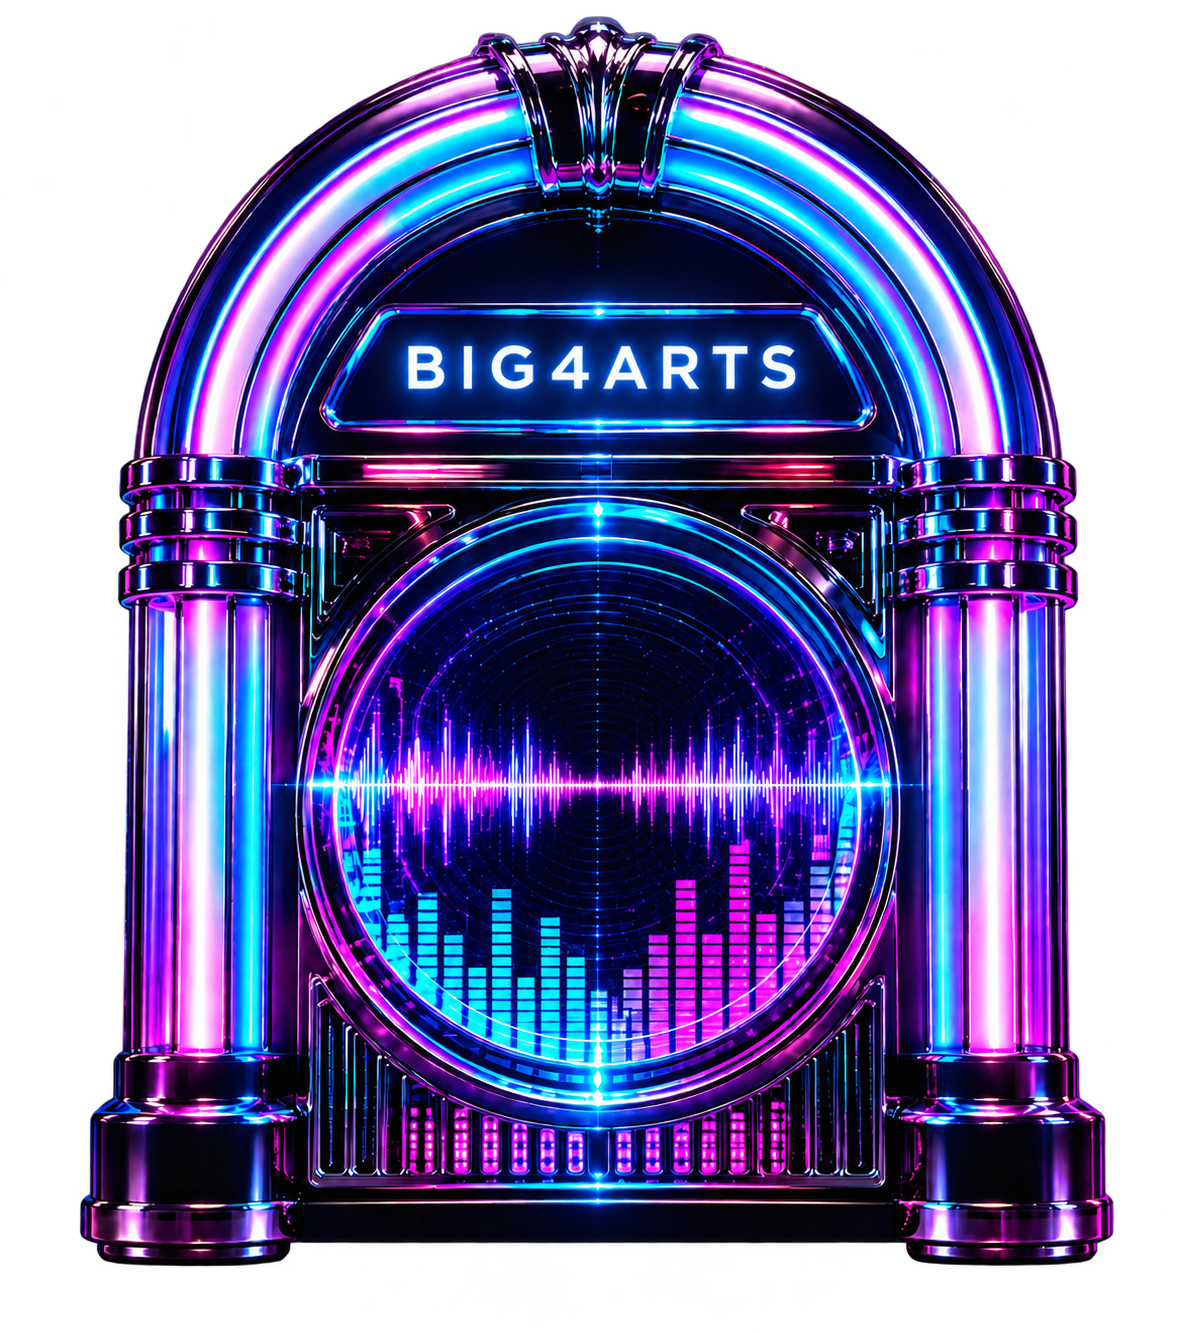
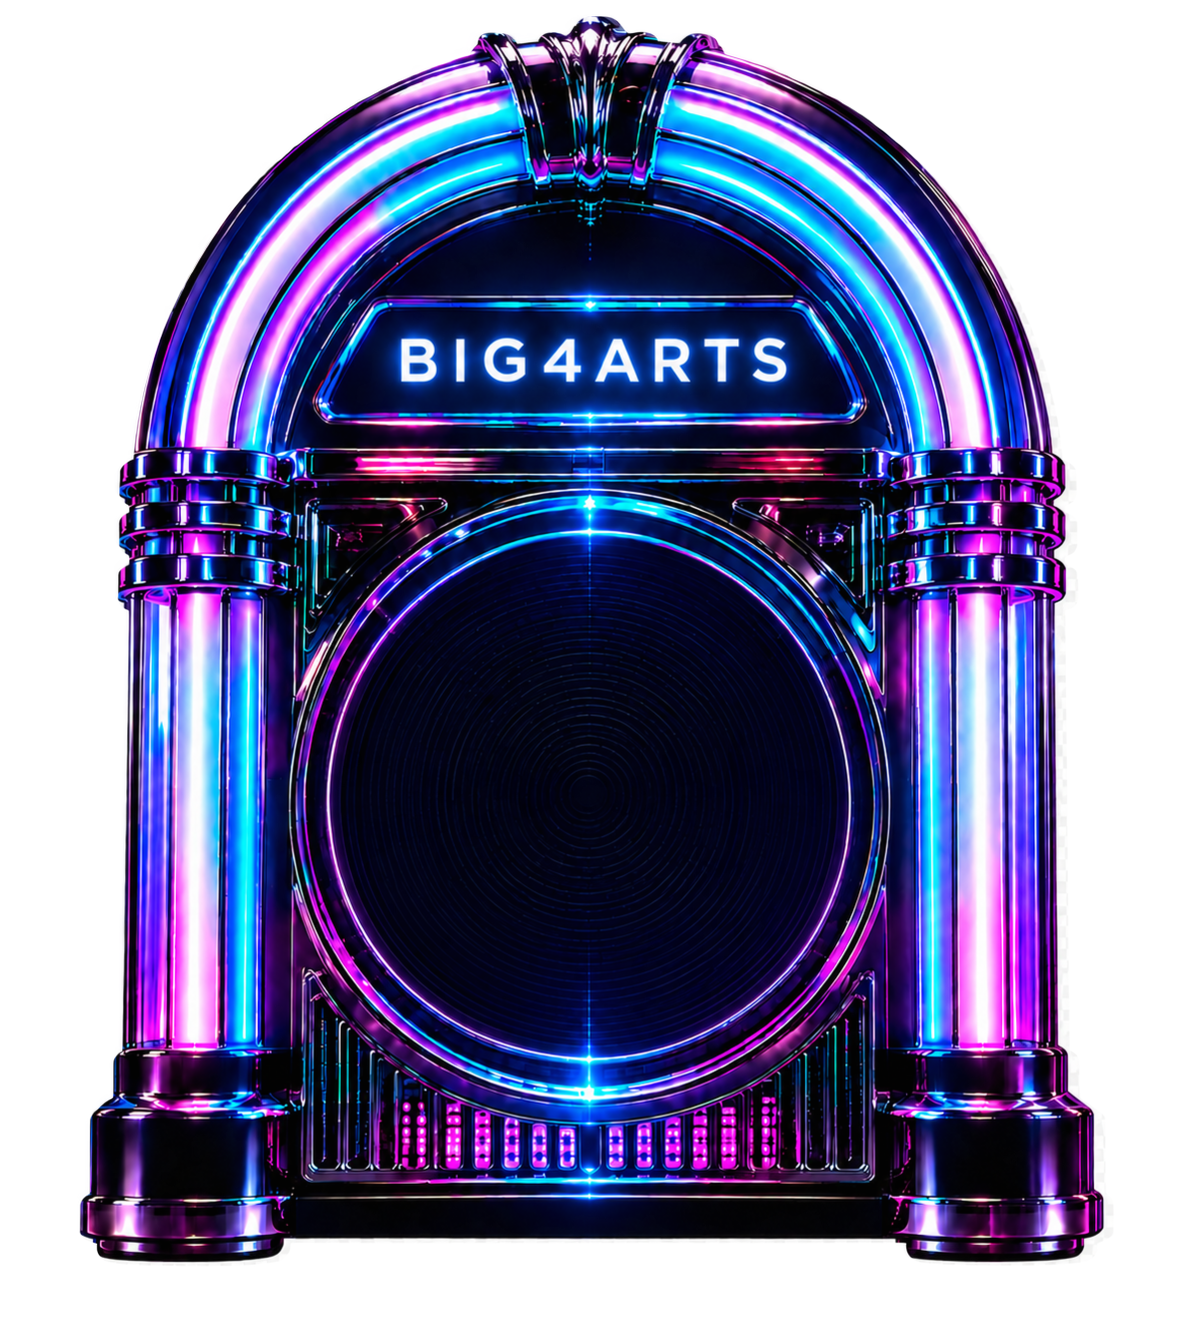
Add files via upload

diff --git a/app.js b/app.js
@@ -36,7 +36,12 @@ const elements = {
 const state = {
   tracks: [],
   currentIndex: -1,
-  visualizerTimer: null,
+  audioContext: null,
+  analyser: null,
+  sourceNode: null,
+  frequencyData: null,
+  waveformData: null,
+  animationFrame: null,
 };
 
 function isAudioFile(filename) {
@@ -298,6 +303,7 @@ function togglePlayback() {
   }
 
   if (elements.audio.paused) {
+    ensureAudioAnalyzer();
     elements.audio.play().catch((error) => {
       console.error(error);
       setLibraryStatus("This browser could not start the song. Please choose it again.", true);
@@ -316,46 +322,190 @@ function updatePlayingState(isPlaying) {
   else stopVisualizer();
 }
 
-function createVisualizer() {
-  const fragment = document.createDocumentFragment();
-  for (let index = 0; index < 24; index += 1) {
-    const bar = document.createElement("span");
-    bar.style.height = `${12 + ((index * 13) % 32)}%`;
-    fragment.append(bar);
+function ensureAudioAnalyzer() {
+  const AudioContextClass = window.AudioContext || window.webkitAudioContext;
+  if (!AudioContextClass) return false;
+
+  if (!state.audioContext) {
+    try {
+      state.audioContext = new AudioContextClass();
+      state.analyser = state.audioContext.createAnalyser();
+      state.analyser.fftSize = 512;
+      state.analyser.minDecibels = -92;
+      state.analyser.maxDecibels = -12;
+      state.analyser.smoothingTimeConstant = 0.78;
+      state.sourceNode = state.audioContext.createMediaElementSource(elements.audio);
+      state.sourceNode.connect(state.analyser);
+      state.analyser.connect(state.audioContext.destination);
+      state.frequencyData = new Uint8Array(state.analyser.frequencyBinCount);
+      state.waveformData = new Uint8Array(state.analyser.fftSize);
+    } catch (error) {
+      console.warn("Audio-reactive visualization is unavailable.", error);
+      state.audioContext = null;
+      state.analyser = null;
+      return false;
+    }
   }
-  elements.visualizer.replaceChildren(fragment);
+
+  if (state.audioContext.state === "suspended") {
+    state.audioContext.resume().catch((error) => console.warn("Audio display could not resume.", error));
+  }
+
+  return true;
 }
 
-function animateVisualizer() {
-  elements.visualizer.querySelectorAll("span").forEach((bar, index) => {
-    const wave = Math.sin(Date.now() / 240 + index * 0.72) * 19;
-    const variation = Math.random() * 34;
-    bar.style.height = `${Math.max(8, Math.min(94, 38 + wave + variation))}%`;
-  });
+function canvasSurface() {
+  const canvas = elements.visualizer;
+  const bounds = canvas.getBoundingClientRect();
+  const ratio = Math.min(window.devicePixelRatio || 1, 2);
+  const pixelWidth = Math.max(1, Math.round(bounds.width * ratio));
+  const pixelHeight = Math.max(1, Math.round(bounds.height * ratio));
+
+  if (canvas.width !== pixelWidth || canvas.height !== pixelHeight) {
+    canvas.width = pixelWidth;
+    canvas.height = pixelHeight;
+  }
+
+  const context = canvas.getContext("2d");
+  context.setTransform(ratio, 0, 0, ratio, 0, 0);
+  context.clearRect(0, 0, bounds.width, bounds.height);
+  return { context, width: bounds.width, height: bounds.height };
+}
+
+function drawSpectrum(context, width, height, frequencyData) {
+  const barCount = 38;
+  const startX = width * 0.1;
+  const spectrumWidth = width * 0.8;
+  const gap = Math.max(1.2, width * 0.005);
+  const barWidth = Math.max(2, (spectrumWidth - gap * (barCount - 1)) / barCount);
+  const baseline = height * 0.9;
+  const maximumHeight = height * 0.42;
+
+  context.save();
+  context.globalCompositeOperation = "screen";
+
+  for (let index = 0; index < barCount; index += 1) {
+    const dataIndex = Math.min(
+      frequencyData.length - 1,
+      Math.floor(2 + Math.pow(index / barCount, 1.45) * frequencyData.length * 0.62),
+    );
+    const strength = frequencyData[dataIndex] / 255;
+    const barHeight = Math.max(3, Math.pow(strength, 1.35) * maximumHeight);
+    const x = startX + index * (barWidth + gap);
+    const hue = 188 + (index / (barCount - 1)) * 126;
+    const color = `hsla(${hue}, 100%, 62%, 0.96)`;
+
+    context.fillStyle = color;
+    context.shadowColor = color;
+    context.shadowBlur = Math.max(4, width * 0.012);
+    context.fillRect(x, baseline - barHeight, barWidth, barHeight);
+
+    context.globalAlpha = 0.19;
+    context.fillRect(x, baseline + 3, barWidth, barHeight * 0.2);
+    context.globalAlpha = 1;
+  }
+
+  context.restore();
+}
+
+function drawWaveform(context, width, height, waveformData) {
+  const centerY = height * 0.51;
+  const amplitude = height * 0.16;
+  const horizontalGradient = context.createLinearGradient(0, 0, width, 0);
+  horizontalGradient.addColorStop(0, "rgba(38, 231, 255, 0)");
+  horizontalGradient.addColorStop(0.12, "#26e7ff");
+  horizontalGradient.addColorStop(0.5, "#ff4ad8");
+  horizontalGradient.addColorStop(0.88, "#26e7ff");
+  horizontalGradient.addColorStop(1, "rgba(38, 231, 255, 0)");
+
+  context.save();
+  context.strokeStyle = "rgba(38, 231, 255, 0.2)";
+  context.lineWidth = 1;
+  context.beginPath();
+  context.moveTo(width * 0.06, centerY);
+  context.lineTo(width * 0.94, centerY);
+  context.stroke();
+
+  const drawLine = (lineWidth, alpha, blur) => {
+    context.beginPath();
+    for (let index = 0; index < waveformData.length; index += 1) {
+      const x = (index / (waveformData.length - 1)) * width;
+      const normalized = waveformData[index] / 128 - 1;
+      const y = centerY + normalized * amplitude;
+      if (index === 0) context.moveTo(x, y);
+      else context.lineTo(x, y);
+    }
+    context.globalAlpha = alpha;
+    context.strokeStyle = horizontalGradient;
+    context.lineWidth = lineWidth;
+    context.shadowColor = "#ff3fd4";
+    context.shadowBlur = blur;
+    context.stroke();
+  };
+
+  drawLine(Math.max(5, width * 0.015), 0.24, 22);
+  drawLine(Math.max(1.6, width * 0.0045), 1, 9);
+  context.restore();
+}
+
+function drawIdleVisualizer() {
+  const { context, width, height } = canvasSurface();
+  const idleWave = new Uint8Array(256);
+  const idleSpectrum = new Uint8Array(128);
+
+  for (let index = 0; index < idleWave.length; index += 1) {
+    idleWave[index] = 128 + Math.sin(index * 0.18) * 2;
+  }
+  for (let index = 0; index < idleSpectrum.length; index += 1) {
+    idleSpectrum[index] = 22 + Math.sin(index * 0.53) * 11;
+  }
+
+  drawSpectrum(context, width, height, idleSpectrum);
+  drawWaveform(context, width, height, idleWave);
+}
+
+function drawLiveVisualizer() {
+  if (!state.analyser || elements.audio.paused) {
+    state.animationFrame = null;
+    drawIdleVisualizer();
+    return;
+  }
+
+  state.analyser.getByteFrequencyData(state.frequencyData);
+  state.analyser.getByteTimeDomainData(state.waveformData);
+  const { context, width, height } = canvasSurface();
+  drawSpectrum(context, width, height, state.frequencyData);
+  drawWaveform(context, width, height, state.waveformData);
+  state.animationFrame = window.requestAnimationFrame(drawLiveVisualizer);
 }
 
 function startVisualizer() {
-  if (state.visualizerTimer) return;
-  animateVisualizer();
-  state.visualizerTimer = window.setInterval(animateVisualizer, 170);
+  ensureAudioAnalyzer();
+  if (state.animationFrame) return;
+  state.animationFrame = window.requestAnimationFrame(drawLiveVisualizer);
 }
 
 function stopVisualizer() {
-  window.clearInterval(state.visualizerTimer);
-  state.visualizerTimer = null;
-  elements.visualizer.querySelectorAll("span").forEach((bar, index) => {
-    bar.style.height = `${12 + ((index * 13) % 32)}%`;
-  });
+  if (state.animationFrame) window.cancelAnimationFrame(state.animationFrame);
+  state.animationFrame = null;
+  drawIdleVisualizer();
 }
 
 elements.playButton.addEventListener("click", togglePlayback);
-elements.previousButton.addEventListener("click", () => selectTrack(state.currentIndex - 1));
-elements.nextButton.addEventListener("click", () => selectTrack(state.currentIndex + 1));
+elements.previousButton.addEventListener("click", () => {
+  ensureAudioAnalyzer();
+  selectTrack(state.currentIndex - 1);
+});
+elements.nextButton.addEventListener("click", () => {
+  ensureAudioAnalyzer();
+  selectTrack(state.currentIndex + 1);
+});
 elements.refreshButton.addEventListener("click", () => loadLibrary(true));
 
 elements.playlist.addEventListener("click", (event) => {
   const button = event.target.closest("button[data-index]");
   if (!button) return;
+  ensureAudioAnalyzer();
   selectTrack(Number(button.dataset.index));
 });
 
@@ -391,10 +541,19 @@ elements.audio.addEventListener("error", () => {
 
 if ("mediaSession" in navigator) {
   const mediaActions = {
-    play: () => elements.audio.play(),
+    play: () => {
+      ensureAudioAnalyzer();
+      elements.audio.play();
+    },
     pause: () => elements.audio.pause(),
-    previoustrack: () => selectTrack(state.currentIndex - 1),
-    nexttrack: () => selectTrack(state.currentIndex + 1),
+    previoustrack: () => {
+      ensureAudioAnalyzer();
+      selectTrack(state.currentIndex - 1);
+    },
+    nexttrack: () => {
+      ensureAudioAnalyzer();
+      selectTrack(state.currentIndex + 1);
+    },
   };
 
   Object.entries(mediaActions).forEach(([action, handler]) => {
@@ -406,5 +565,9 @@ if ("mediaSession" in navigator) {
   });
 }
 
-createVisualizer();
+window.addEventListener("resize", () => {
+  if (elements.audio.paused) window.requestAnimationFrame(drawIdleVisualizer);
+});
+
+window.requestAnimationFrame(drawIdleVisualizer);
 loadLibrary();

diff --git a/index.html b/index.html
@@ -54,7 +54,11 @@
                 <span id="track-meta">Scanning the complete music library</span>
               </div>
 
-              <div class="visualizer" id="visualizer" aria-hidden="true"></div>
+              <canvas
+                class="visualizer"
+                id="visualizer"
+                aria-hidden="true"
+              ></canvas>
 
               <div class="transport" aria-label="Playback controls">
                 <button id="prev-btn" class="control-button skip" type="button" aria-label="Previous track">
@@ -141,7 +145,7 @@
       </footer>
     </main>
 
-    <audio id="audio" preload="metadata"></audio>
+    <audio id="audio" preload="metadata" crossorigin="anonymous"></audio>
     <script src="app.js"></script>
   </body>
 </html>

diff --git a/styles.css b/styles.css
@@ -260,26 +260,13 @@ button {
 
 .visualizer {
   position: absolute;
-  top: 43%;
-  left: 8%;
-  width: 84%;
-  height: 18%;
-  display: flex;
-  align-items: center;
-  justify-content: center;
-  gap: 2.2%;
-  opacity: 0.72;
+  top: 28%;
+  left: 4%;
+  width: 92%;
+  height: 52%;
+  opacity: 0.92;
   pointer-events: none;
   mask-image: linear-gradient(90deg, transparent, black 12%, black 88%, transparent);
-}
-
-.visualizer span {
-  width: 3%;
-  min-height: 5px;
-  border-radius: 999px;
-  background: linear-gradient(to top, var(--pink), var(--violet), var(--cyan));
-  box-shadow: 0 0 10px rgba(38, 231, 255, 0.65);
-  transition: height 160ms ease;
 }
 
 .transport {
